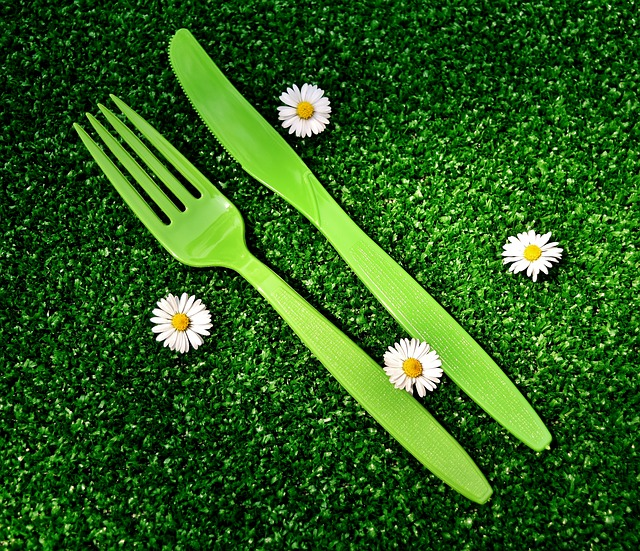
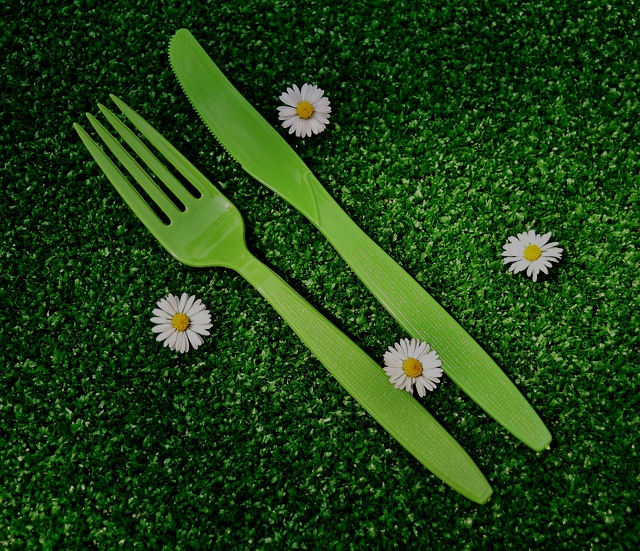
cheating on the image-overlays

diff --git a/index.html b/index.html
@@ -85,7 +85,7 @@
         </div>
         <!-- End of Cheap Vertical Space -->
         <div class="row">
-                <div class="col-md-5 offset-md-2 image fit-width">
+                <div class="col-md-5 offset-md-2 fit-width">
                         <img class="fit-width" src="img/seamstress-measuring-tape.jpeg">
                         <div class="text-on-image">
                             <span class="image-header">Tailored to Fit</span>
@@ -102,7 +102,7 @@
                     <div class="white-bg" style="height:2em;">
                     </div>
                     <!-- End of Cheap Vertical Space -->
-                    <div class="col-md-6 fit-width image">
+                    <div class="col-md-6 fit-width">
                         <img class="fit-width" src="img/picnic.jpg">
                         <div class="lesser-text-on-image">
                             <span class="lesser-image-header"><i>Doing</i> Good</span>

diff --git a/css/style.css b/css/style.css
@@ -28,15 +28,6 @@
     text-align: right;
 }
 
-.image:before {
-    background: black;
-    opacity: 0.35;
-    position: absolute;
-    height: 100%;
-    width: 100%;
-    content: '';
-}
-
 .image-header {
     font-size: 40px;
     color: white;
